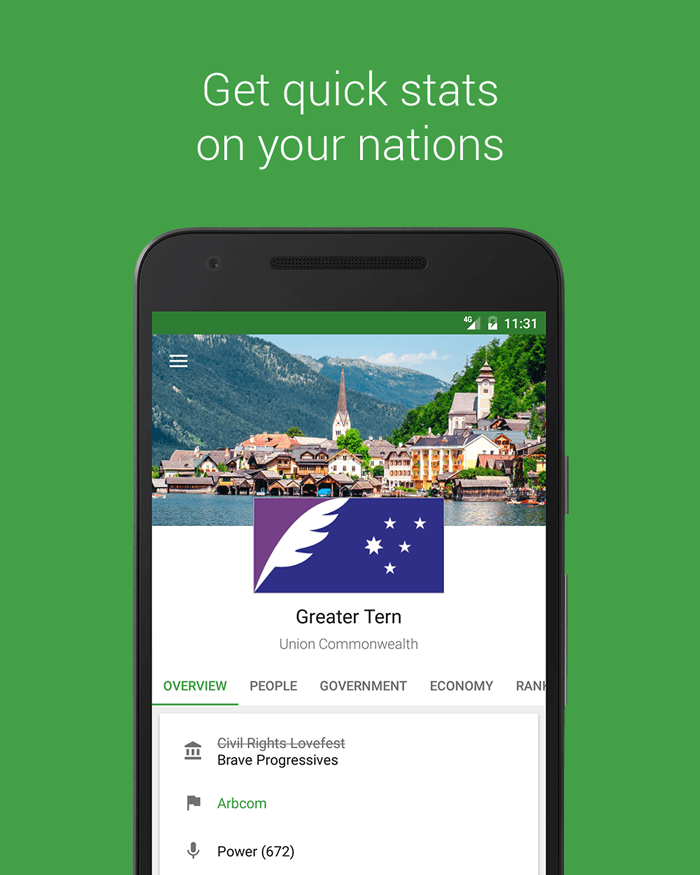
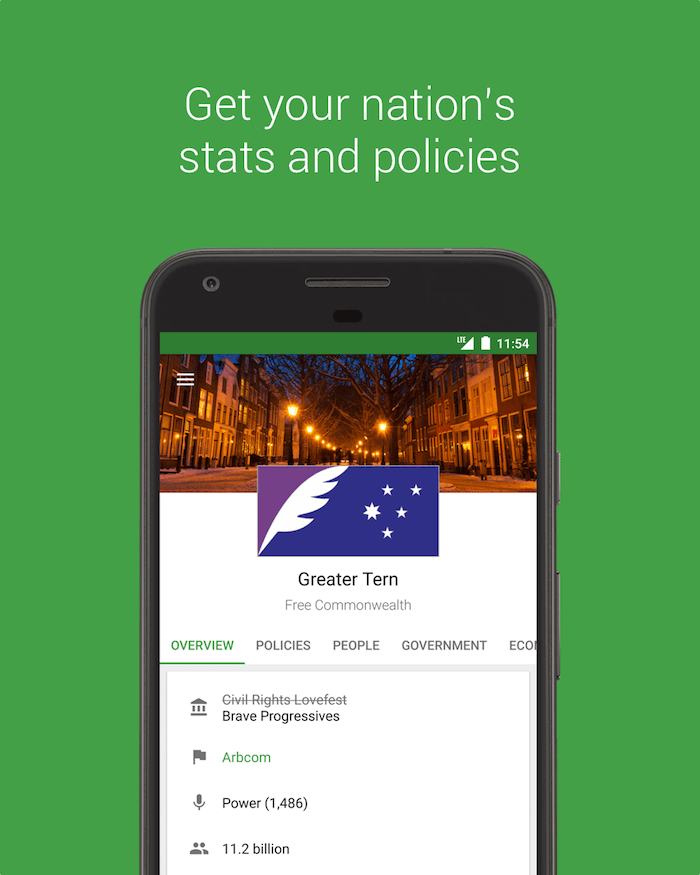
Update Stately project page

diff --git a/projects/stately.md b/projects/stately.md
@@ -24,15 +24,15 @@ sequence: -11
 
         <p class="featuretext-sm">
             <ul>
-                <li>Browse your nation's data and stats.</li>
+                <li>Get your nation's stats, policies, rankings and happenings.</li>
                 <li>Respond to issues encountered by your nation.</li>
-                <li>Discover trends in national, regional and world census statistics.</li>
                 <li>Login and switch between different nations.</li>
-                <li>Read, organize, write and reply to telegrams.</li>
-                <li>Browse through regional factbooks and communities.</li>
-                <li>Read, quote, post and do more in RMBs.</li>
+                <li>Browse through and move to different regional communities.</li>
+                <li>Chat with other players and more in RMBs.</li>
                 <li>Observe and vote on current World Assembly resolutions.</li>
-                <li>Explore, endorse nations and move to different regions in NationStates.</li>
+                <li>Endorse nations and participate in R/D gameplay.</li>
+                <li>Read, manage, write and reply to telegrams.</li>
+                <li>Discover trends in national, regional and world census statistics.</li>
                 <li>Compile all your happenings together with the Activity Feed.</li>
                 <li>Get notified and stay up to date on new issues, telegrams and other events.</li>
                 <li>Make it your own: choose between five different themes and more.</li>
@@ -106,7 +106,6 @@ sequence: -11
 <p>Stately uses Creative Commons-licensed content from the following sources:</p>
 
 <ul>
-  <li><a href="https://android-material-icon-generator.bitdroid.de/">Android Material Icon Generator (CC BY-NC 3.0)</a></li>
   <li><a href="http://www.flaticon.com/packs/medical-icons">Medical Icons Pack (CC BY 3.0)</a></li>
 </ul>
 
